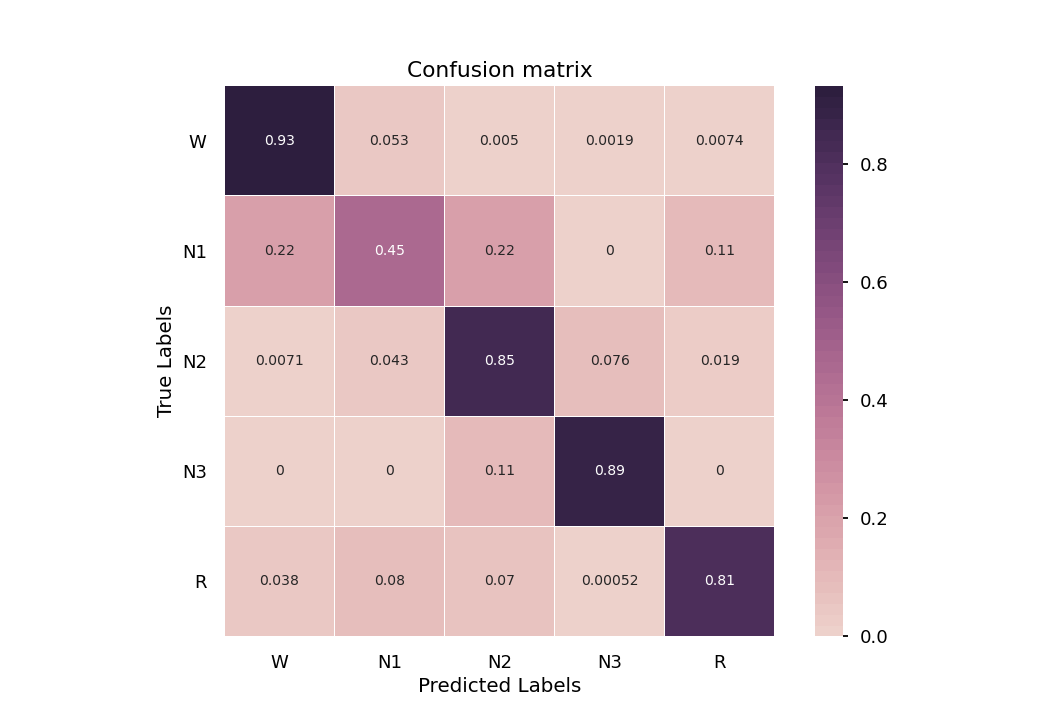
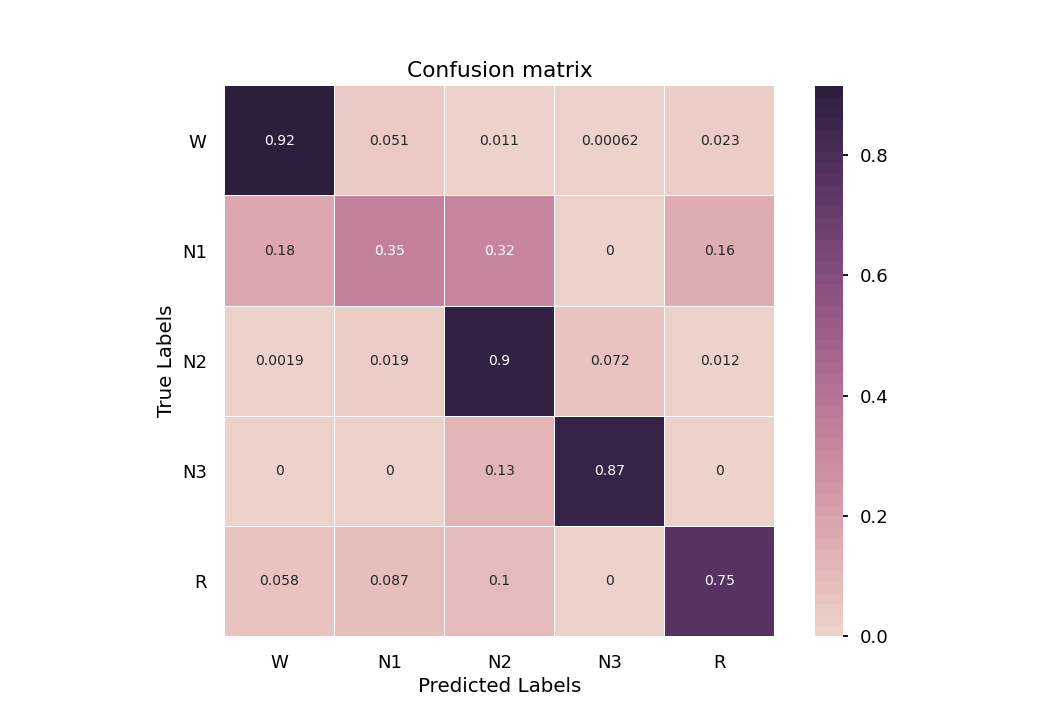
plots

diff --git a/sleep-staging/main.py b/sleep-staging/main.py
@@ -38,12 +38,12 @@ mapping = {'Sleep stage W': 0,
 classes_mapping = {0: 'W', 1: 'N1', 2: 'N2', 3: 'N3', 4: 'R'}
 
 train_test_diff = False
-preprocessed = False
-train_valid = 'MASS'
-train_valid_size = 60
+preprocessed = True
+train_valid = 'SleepPhysionet'
+train_valid_size = 180
 test = 'MASS'
 test_size = 0
-sfreq = 256
+sfreq = 100
 window_size_s = 30
 lr = 5e-4
 n_epochs = 10
